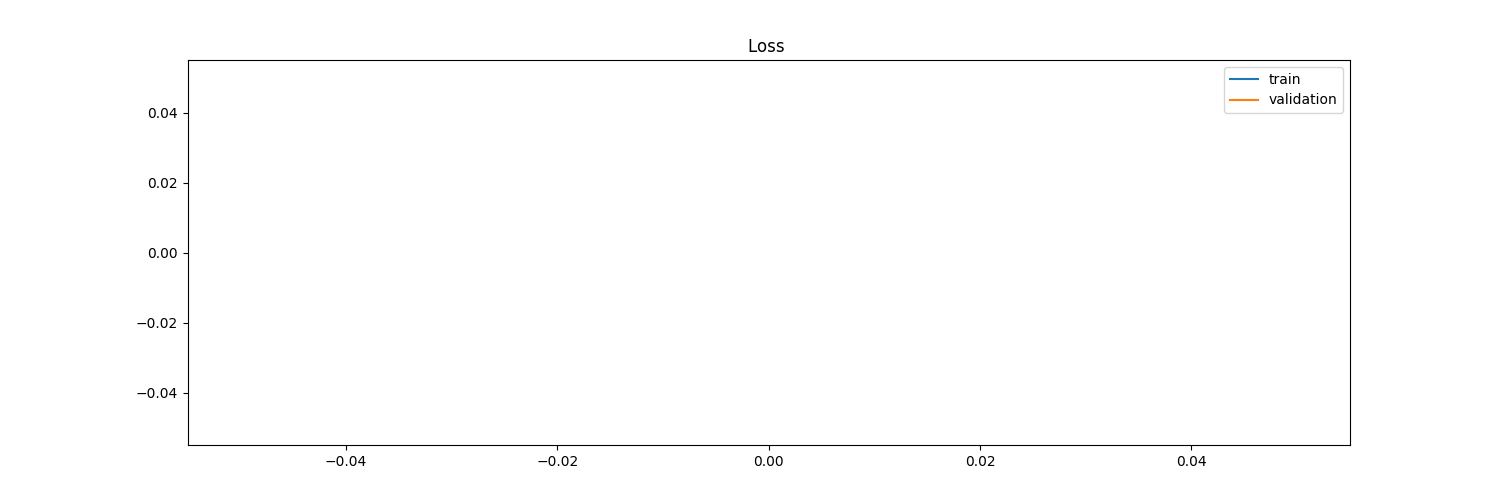
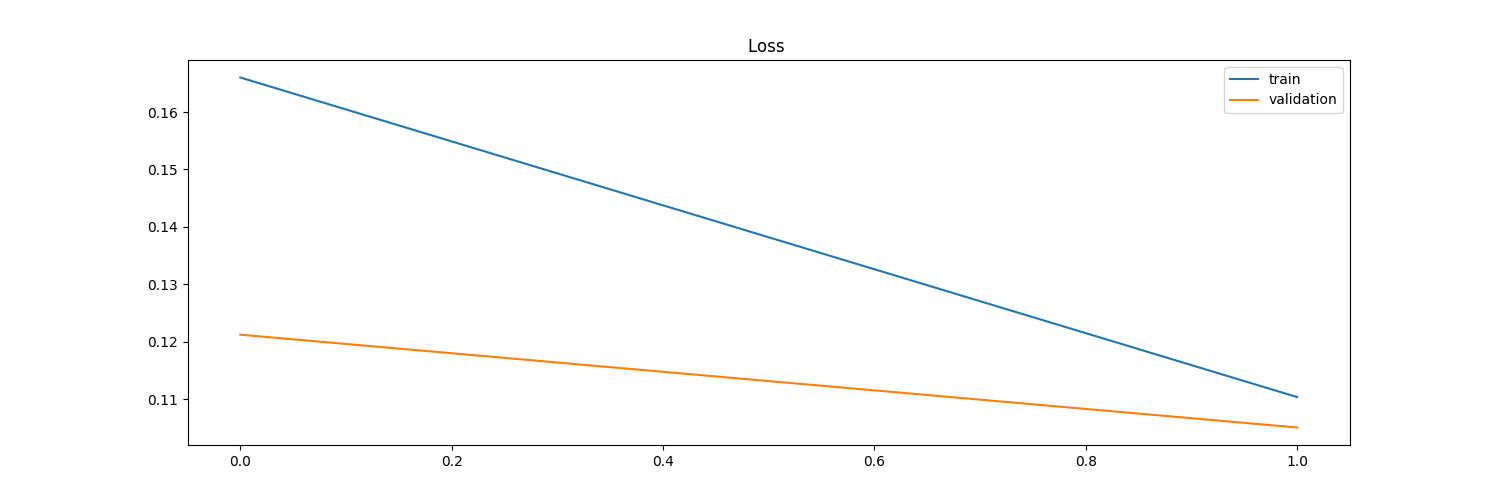
add model train script for experiments with cosine model

diff --git a/notebooks/Experiments/train_cosine_emb_base_line.py b/notebooks/Experiments/train_cosine_emb_base_line.py
@@ -4,12 +4,8 @@ sys.path.insert(0, '..')
 
 import os
 import warnings
+import datetime
 from urllib.parse import urlparse
-
-import logging
-
-logging.basicConfig(level=logging.WARN)
-logger = logging.getLogger(__name__)
 
 import pandas as pd
 
@@ -20,14 +16,20 @@ from torch.utils.data import Dataset, DataLoader
 from sklearn.feature_extraction.text import TfidfVectorizer
 from sklearn.metrics import roc_auc_score, roc_curve, accuracy_score
 
+
+from JuristEngine import Models 
+from JuristEngine.Models import RetrieverDouble, TFIDFNetEmb, CosineScore, Twins
+from JuristEngine import Instruments
+from ExperimentsBase import load_ttv_datasets, savefig_train_val, parse_experiments_args
+
 import mlflow
 import mlflow.pytorch
 import mlflow.sklearn
 
-from JuristEngine import Models 
-from JuristEngine.Models import RetrieverDouble, TFIDFNet, LinearScore
-from JuristEngine import Instruments
-from ExperimentsBase import load_ttv_datasets, savefig_train_val, parse_experiments_args
+import logging
+
+logging.basicConfig(level=logging.WARN)
+logger = logging.getLogger(__name__)
 
 
 def create_model(train_dataset, df_art_to_par, max_quest_features, max_doc_features):
@@ -38,29 +40,27 @@ def create_model(train_dataset, df_art_to_par, max_quest_features, max_doc_featu
     vectorizer_doc.fit(df_art_to_par.paragraph.values)
     quest_features = vectorizer_quest.transform(['0']).toarray().shape[-1]
     doc_features = vectorizer_doc.transform(['0']).toarray().shape[-1]
+    assert doc_features == quest_features
     
-    tfidf_retriever = TFIDFNet(vectorizer_quest)
-    doc_retriever = TFIDFNet(vectorizer_doc)
-    linear_score = LinearScore(quest_features, doc_features, n_scores=2)
-    base_retriever = RetrieverDouble(linear_score, tfidf_retriever, doc_retriever)
+    tfidf_retriever = TFIDFNetEmb(vectorizer_quest)
+    doc_retriever = TFIDFNetEmb(vectorizer_doc)
+    base_retriever = Twins(tfidf_retriever, doc_retriever)
+
     return base_retriever
-    
 
 if __name__ == '__main__':
     warnings.filterwarnings('ignore')
-    
-    #To config
-    start_time = ''
+
+    start_time = str(datetime.datetime.now())
+    print(start_time)
     graphics_dir = './data/plots/'
     model_dir = '/data/models/'
     path_train_val_plot = graphics_dir + 'losses_' + start_time + '.png'
-    print(path_train_val_plot)
+    
     base_path, train_jurist, test_jurist, val_jurist = './data/datasets/', 'train_article_match.pt', 'test_article_match.pt', 'val_article_match.pt'
     path_df_art_to_par = base_path+'df_art_to_par.csv'
-    
-    
+
     lr, epochs, batch_size, max_quest_features, max_doc_features =  parse_experiments_args()
-    
     
     train_dataset, test_dataset, val_dataset = load_ttv_datasets(base_path + train_jurist, base_path + test_jurist, base_path + val_jurist)
     train_dataloader = DataLoader(train_dataset, batch_size = batch_size, shuffle = True)  
@@ -68,29 +68,21 @@ if __name__ == '__main__':
     val_dataloader = DataLoader(val_dataset, batch_size = batch_size, shuffle = True)
     
     df_art_to_par = pd.read_csv(path_df_art_to_par, index_col = 'article_id')
-                                  
+
     model = create_model(train_dataset, df_art_to_par, max_quest_features, max_doc_features)
-    
+
     with mlflow.start_run():
-        criterion = nn.CrossEntropyLoss()
+        criterion = nn.CosineEmbeddingLoss()
+        
         optimizer = torch.optim.Adam(model.parameters(), lr = lr)
 
-        output = Instruments.train_tfidf_linear_score(model, train_dataloader, val_dataloader,optimizer, criterion, 
+        output = Instruments.train_tfidf_cosine_score(model, train_dataloader, val_dataloader,optimizer, criterion, 
                                                       epochs = epochs, plot_loss = False)
 
         train_loss = output['train_loss']
         val_loss = output['val_loss']
+        
         savefig_train_val(train_loss, val_loss, path_train_val_plot)
         mlflow.log_artifact(path_train_val_plot)
 
-
-        with torch.no_grad():
-            y_preds, y_gt = Instruments.test_loop(model, test_dataloader, Instruments.unpack_retriever_tfidf)
-        y_probas, y_gt = torch.concat(y_preds), torch.concat(y_gt)
-        test_roc_auc = roc_auc_score(y_gt.detach().numpy(), y_probas.detach().numpy().argmax(1))
-        
-        mlflow.log_metric('roc_auc', test_roc_auc)
-        
-        mlflow.pytorch.log_model(model, 'tf_idf_linear_score.pt', registered_model_name = 'tf_idf_linear_score.pt')
-    
-    
+        mlflow.pytorch.log_model(model, 'tf_idf_cosine_score.pt', registered_model_name = 'tf_idf_cosine_score.pt')

diff --git a/notebooks/Experiments/ExperimentsBase.py b/notebooks/Experiments/ExperimentsBase.py
@@ -1,6 +1,11 @@
+import sys
+
 import torch
 from torch.utils.data import Dataset
 import matplotlib.pyplot as plt
+from sklearn.feature_extraction.text import TfidfVectorizer
+
+from JuristEngine.Models import RetrieverDouble, TFIDFNet, LinearScore, CosineScore
 
 '''
 Function for loading train, test, validation datasets
@@ -29,3 +34,12 @@ def savefig_train_val(train_loss, val_loss, path, title_suffix=''):
     axes.legend()
 
     plt.savefig(path)
+
+def parse_experiments_args():
+    lr = float(sys.argv[1]) if len(sys.argv) > 1 else 1e-3
+    epochs = int(sys.argv[2]) if len(sys.argv) > 2 else 10
+    batch_size = int(sys.argv[3]) if len(sys.argv) > 3 else 32
+    max_quest_features = int(sys.argv[4]) if len(sys.argv) > 4 else 1000
+    max_doc_features = int(sys.argv[5]) if len(sys.argv) > 5 else 1000
+    return lr, epochs, batch_size, max_quest_features, max_doc_features
+
